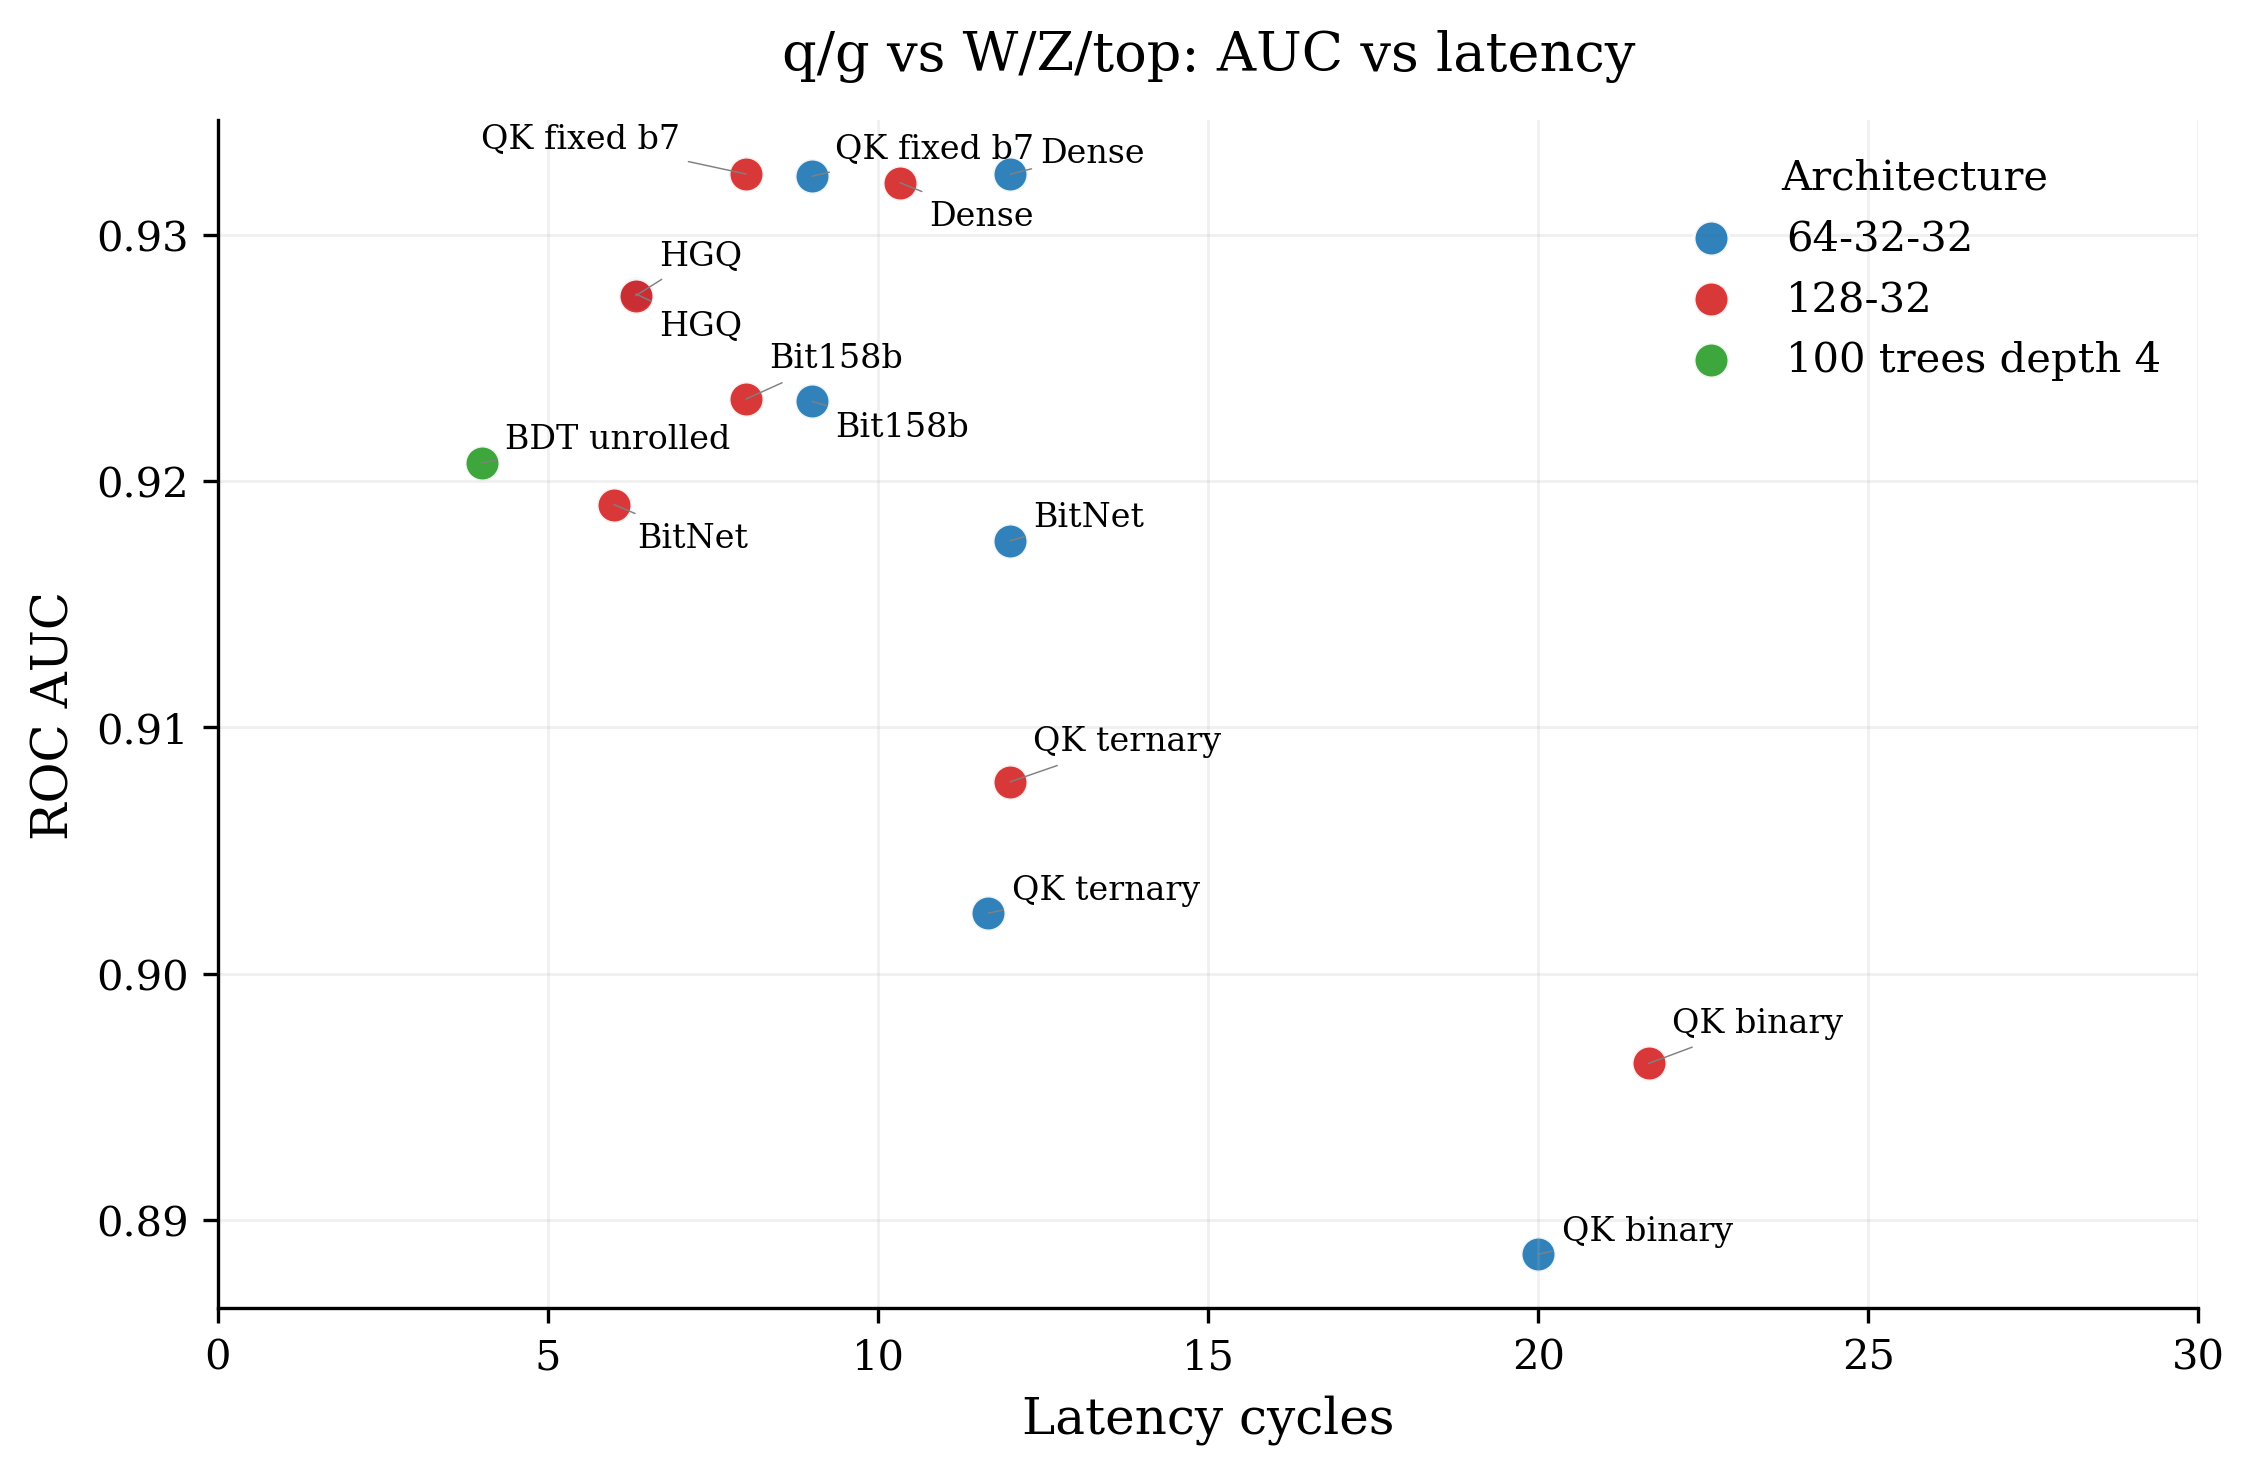
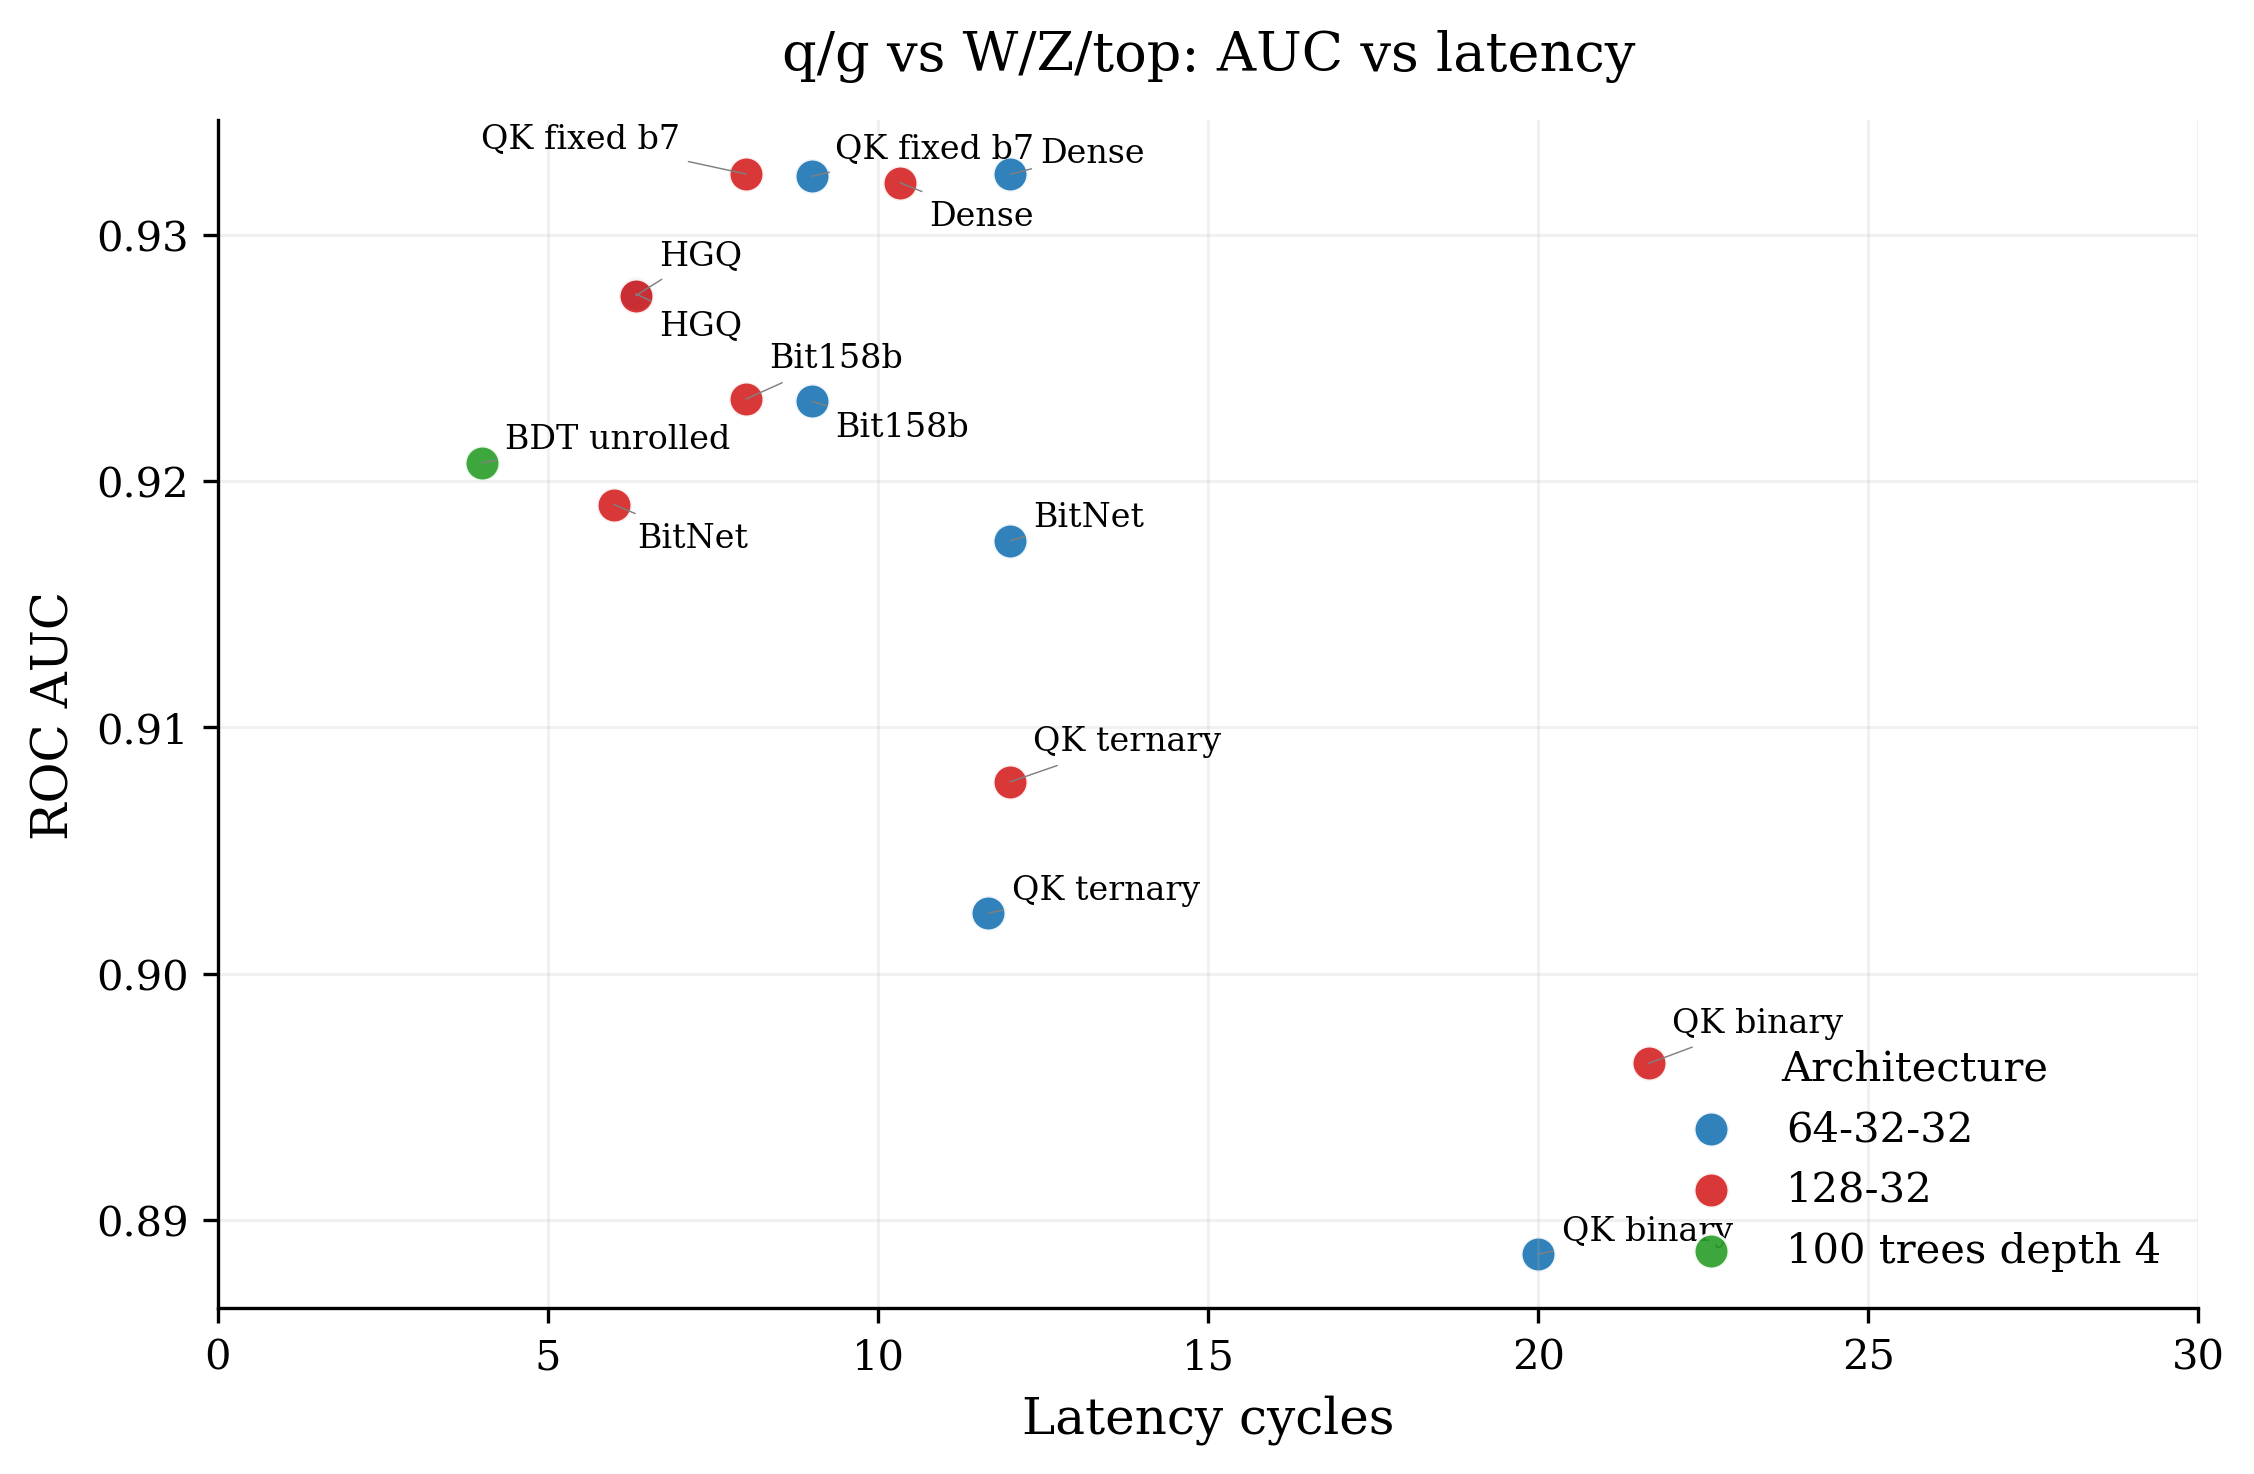
Use abstract-style Pareto legends

Changed region(s): [[0.7453, 0.7178, 0.9627, 0.8738], [0.8075, 0.0936, 0.9627, 0.2497], [0.7453, 0.156, 0.7764, 0.2497]]

diff --git a/scripts/generate_benchmark_artifacts.py b/scripts/generate_benchmark_artifacts.py
@@ -845,7 +845,8 @@ def plot_scatter(
     ax.grid(True, alpha=0.18, linewidth=0.7)
     if annotate and labeled_rows:
         annotate_without_overlap(ax, labeled_rows, x_key, y_key)
-    ax.legend(frameon=False, loc="best", title="Architecture" if color_by_arch else None)
+    legend_loc = "lower right" if color_by_arch else "best"
+    ax.legend(frameon=False, loc=legend_loc, title="Architecture" if color_by_arch else None)
     fig.savefig(path, dpi=300, bbox_inches="tight")
     plt.close(fig)
 

diff --git a/scripts/reproduce_public_artifacts.py b/scripts/reproduce_public_artifacts.py
@@ -241,7 +241,7 @@ def plot_pareto(
     if x_key == "lut_mean":
         ax.xaxis.set_major_formatter(FuncFormatter(lambda value, _pos: f"{int(round(value / 1000.0))}k"))
     ax.grid(True, alpha=0.18, linewidth=0.7)
-    ax.legend(frameon=False, loc="best", title="Architecture")
+    ax.legend(frameon=False, loc="lower right", title="Architecture")
     output.parent.mkdir(parents=True, exist_ok=True)
     fig.savefig(output, dpi=300, bbox_inches="tight")
     plt.close(fig)
